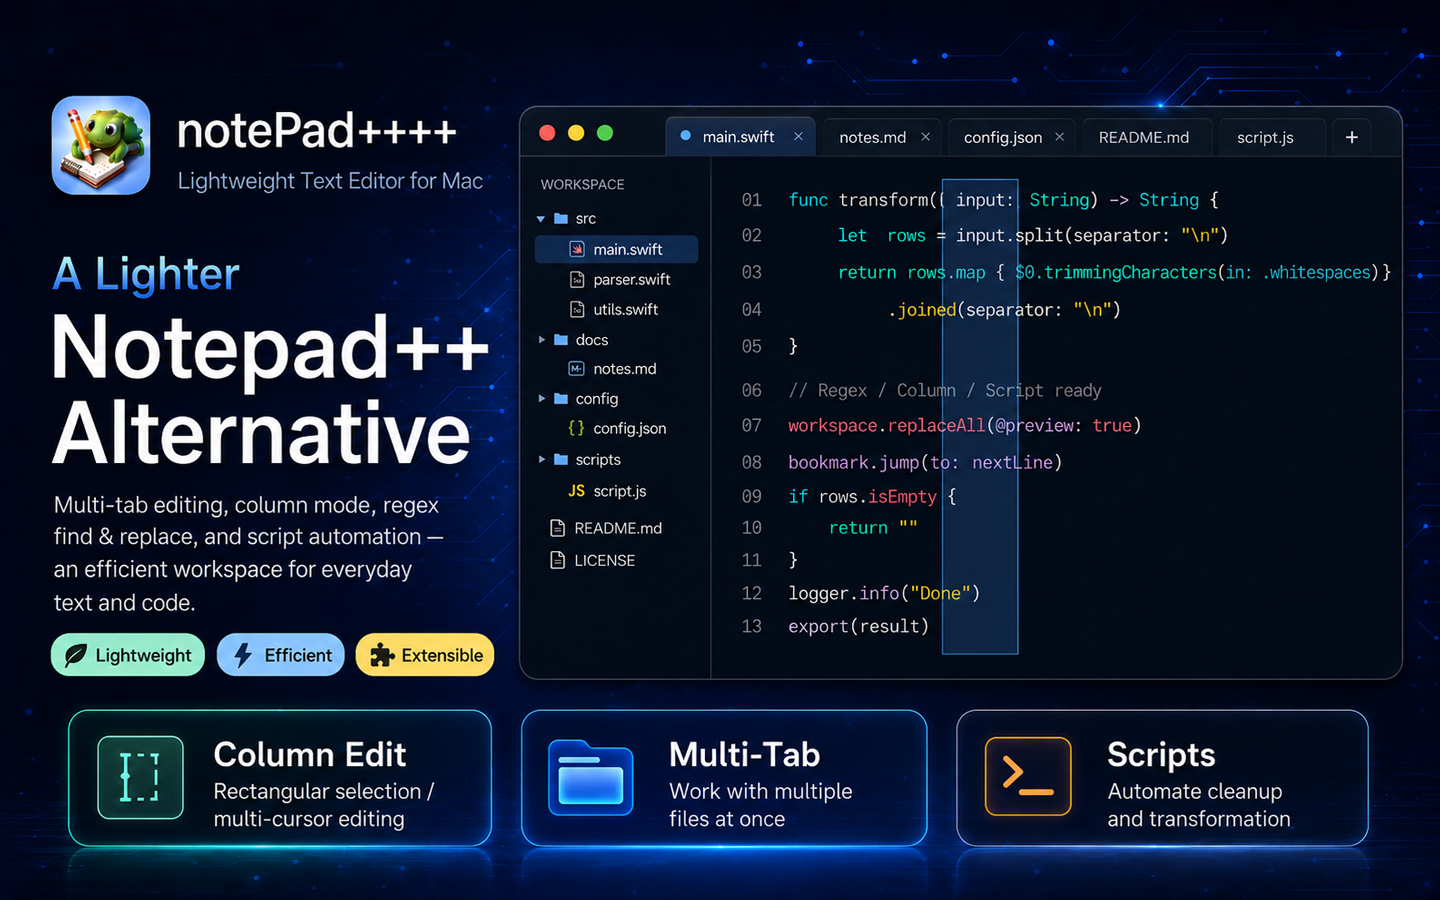
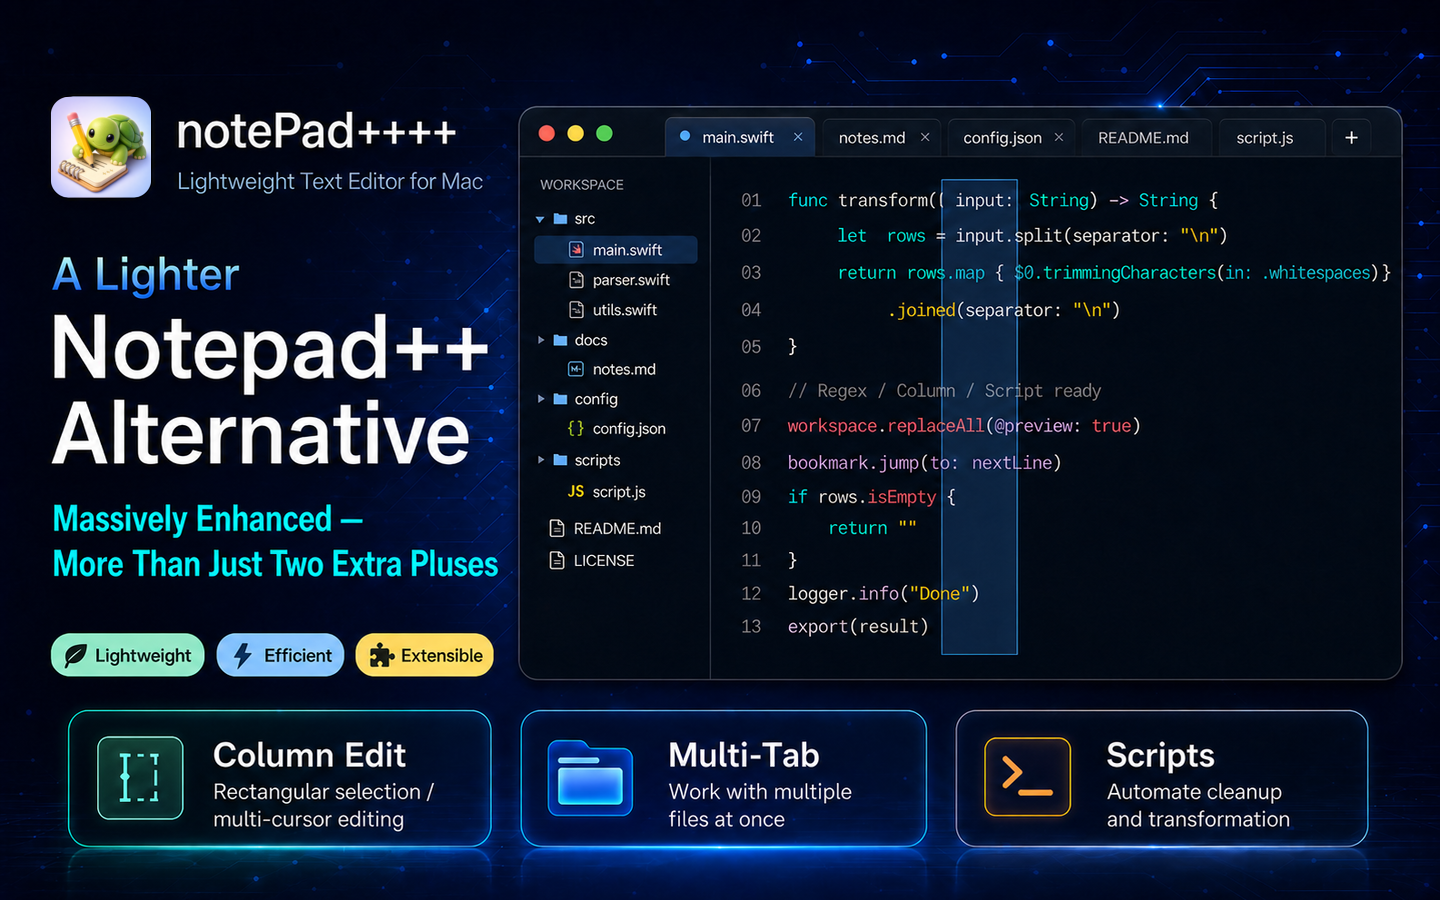
更新官网主图并补充 IndexNow 发布说明
提交线上正在使用的中英文首页主图，统一当前官网展示资源。\n\n新增 Bing IndexNow 操作文档，记录网址提交命令、验证方法、历史提交说明和后续文章发布步骤。

diff --git a/Bing-IndexNow提交说明.md b/Bing-IndexNow提交说明.md
@@ -1,0 +1,92 @@
+# Bing IndexNow 提交说明
+
+## 结论
+
+Bing Webmaster Tools 中的 **IndexNow** 页面主要用于查看提交记录，不是逐条填写网址的提交表单。
+
+本官网已经配置了 IndexNow 提交脚本，因此发布新页面后，可以直接在官网源码目录通过命令行通知 Bing。DuckDuckGo 的普通网页结果大量来自 Bing，所以这种提交也有助于 DuckDuckGo 更快发现新页面。
+
+## 现有文件
+
+- 提交脚本：`scripts/submit-indexnow.mjs`
+- npm 命令：`package.json` 中的 `seo:indexnow`
+- IndexNow 验证文件：位于 `public` 目录
+- 网站地图：`https://notepad-plus-plus-mac.com/sitemap.xml`
+
+提交脚本会读取验证文件，然后向以下接口发送网址：
+
+```text
+https://api.indexnow.org/indexnow
+```
+
+## 提交新增或更新的网址
+
+在官网源码目录执行：
+
+```bash
+npm run seo:indexnow -- \
+  https://notepad-plus-plus-mac.com/en/example-page-1/ \
+  https://notepad-plus-plus-mac.com/en/example-page-2/
+```
+
+在要求所有命令使用 RTK 的 Codex 环境中执行：
+
+```bash
+rtk npm run seo:indexnow -- \
+  https://notepad-plus-plus-mac.com/en/example-page-1/ \
+  https://notepad-plus-plus-mac.com/en/example-page-2/
+```
+
+脚本支持一次传入多个网址。IndexNow 单次可以接收远多于本站现有页面数量的网址，因此本站不需要拆成多批。
+
+如果不传网址，脚本只会提交代码中 `defaultUrls` 定义的几个默认网址，并不会自动读取整个网站地图。
+
+## 2026 年 8 月 4 日的全量提交记录
+
+本次检查得到以下结果：
+
+- 线上网站地图共有 44 个网址。
+- 44 个网址均返回 HTTP 200。
+- 页面中没有发现 `noindex` 禁止收录标记。
+- 先单独提交了 4 篇新文章。
+- 随后又提交了网站地图中的全部 44 个网址。
+- 两次 IndexNow 请求均返回 `200 OK`。
+- Bing 页面显示过去 3 小时收到 48 次提交，来源为 `Self`。
+
+48 次提交不代表有 48 个不同页面。原因是最先提交的 4 篇新文章，也包含在随后提交的 44 个网址中：
+
+```text
+4 + 44 = 48 次提交
+```
+
+网站地图中实际仍是 44 个不同网址。
+
+## 在 Bing 中确认结果
+
+1. 打开 Bing Webmaster Tools。
+2. 选择 `notepad-plus-plus-mac.com`。
+3. 点击左侧的 **IndexNow**。
+4. 查看“过去 3 小时内提交的 URL”。
+5. 在下方列表中核对网址、提交时间和来源。
+
+来源显示为 `Self`，表示网址由本站自己的 IndexNow 配置提交。
+
+`200 OK` 只表示搜索引擎已经收到网址通知，不代表页面已经立即收录。Bing 仍会抓取页面，并根据页面内容和质量决定是否加入索引。
+
+## 后续发布流程
+
+以后发布文章时按以下顺序处理：
+
+1. 编译并部署官网。
+2. 确认新网址可以正常访问。
+3. 确认网站地图已经包含新网址。
+4. 使用 `npm run seo:indexnow -- 新网址` 提交本次新增或修改的页面。
+5. 在 Bing Webmaster Tools 的 IndexNow 页面检查提交记录。
+
+不需要每次都重新提交全部 44 个网址，也不要反复提交没有变化的页面。全量提交适合首次补齐记录，后续只提交新增、修改或删除的网址。
+
+## 与 Google 和 DuckDuckGo 的区别
+
+- Google：继续使用 Google Search Console 和网站地图。
+- Bing：使用网站地图和 IndexNow。
+- DuckDuckGo：没有面向站长的单独网址提交入口；其普通网页结果大量来自 Bing，因此无需再去 DuckDuckGo 单独提交。
